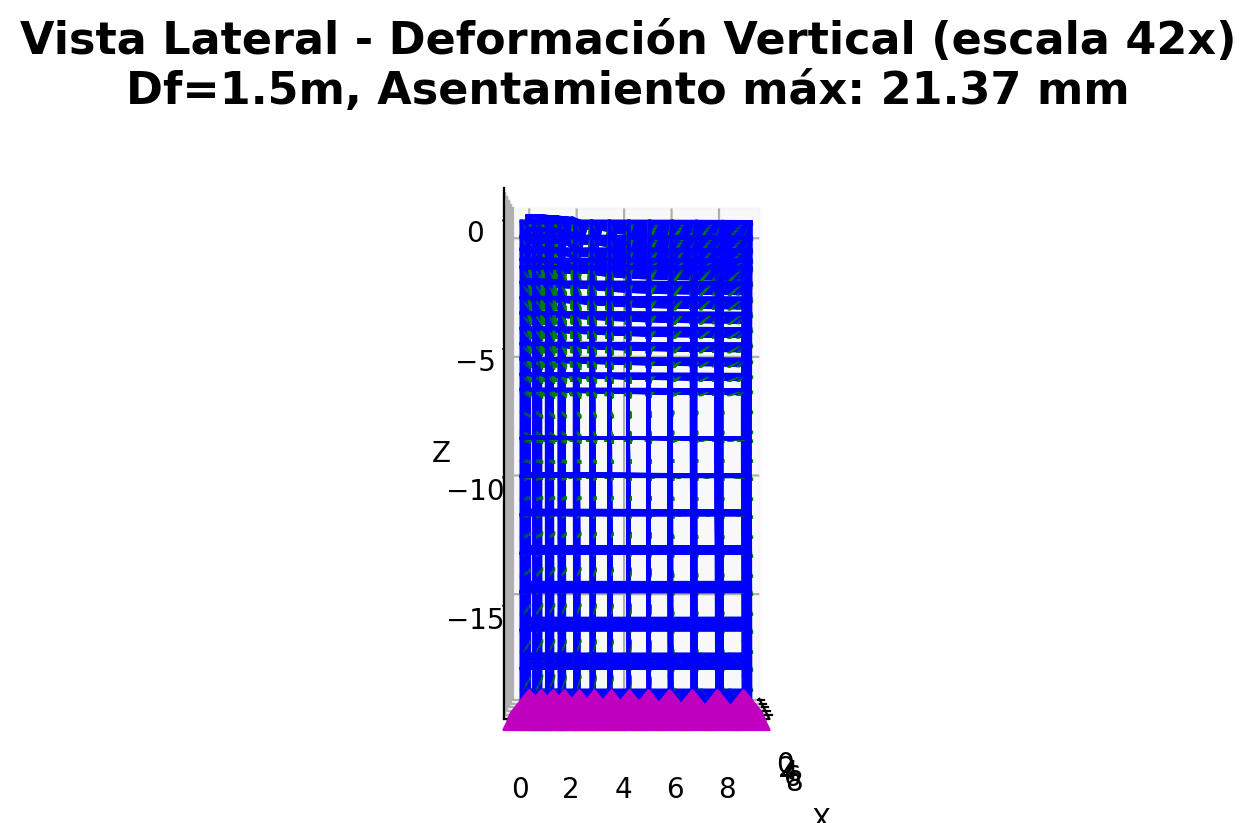
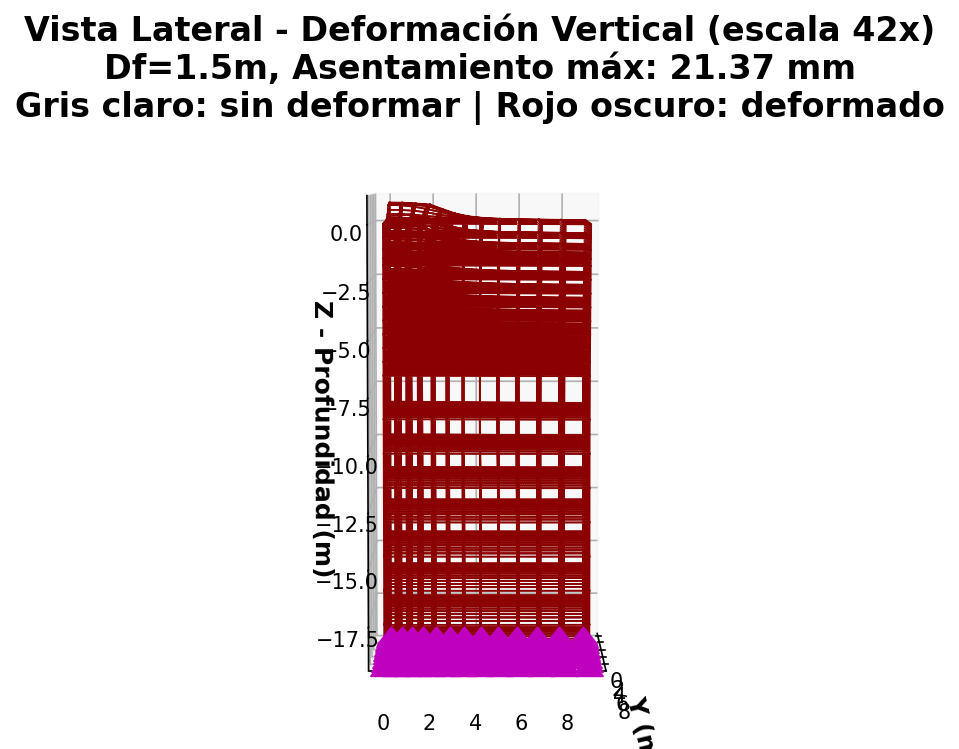
Improve opsvis visualization parameters
Enhanced visualization settings for clearer model views:
- Increased figure sizes for better detail visibility
- Added custom line styles and colors for deformed/undeformed states
- Improved axis labels with bold font
- Adjusted viewing angles for better perspectives
- Reduced DPI to 150 for faster rendering

Updated all 4 visualizations with improved styling:
- Undeformed: Black wireframe showing mesh structure
- Deformed isometric: Gray (original) vs Blue (deformed)
- Lateral view: Light gray vs Dark red for vertical deformation
- Plan view: Light blue vs Green for surface deformation

Note: matplotlib visualizations in visualize_zapata.py remain superior
for professional reports and presentations.

diff --git a/visualize_opsvis.py b/visualize_opsvis.py
@@ -214,43 +214,65 @@ print()
 scale_factor = dominio_ancho * 0.1 / abs(max_settlement) if max_settlement != 0 else 100
 
 # ============================================================================
-# VISUALIZACIÓN 1: Modelo sin deformar
+# VISUALIZACIÓN 1: Modelo sin deformar (wireframe limpio)
 # ============================================================================
 print("1. Modelo sin deformar...")
 
-fig1 = plt.figure(figsize=(16, 12))
-ax1 = fig1.add_subplot(111, projection='3d')
+fig1 = plt.figure(figsize=(18, 14))
 
-opsv.plot_model(az_el=(-60, 30), fig_wi_he=(16, 12))
+# Plot con menos nodos visibles y wireframe
+opsv.plot_model(
+    node_labels=0,
+    element_labels=0,
+    az_el=(-65, 25),
+    fig_wi_he=(18, 14),
+    fmt_model={'color': 'black', 'linewidth': 0.5, 'linestyle': '-'}
+)
 
 plt.title(f'Modelo OpenSees - Zapata {B_completa}m×{L_completa}m, Df={Df}m\n'
-          f'Modelo 1/4 simetría - {num_nodos} nodos, {total_elementos} elementos',
+          f'Modelo 1/4 simetría - {num_nodos} nodos, {total_elementos} elementos\n'
+          f'Malla gradual con zapata enterrada a {Df}m',
           fontsize=16, fontweight='bold', pad=20)
 
+# Mejorar labels de ejes
+ax = plt.gca()
+ax.set_xlabel('X (m)', fontsize=12, fontweight='bold')
+ax.set_ylabel('Y (m)', fontsize=12, fontweight='bold')
+ax.set_zlabel('Z (m)', fontsize=12, fontweight='bold')
+
 output1 = 'modelo_opsvis_undeformed.png'
-plt.savefig(output1, dpi=200, bbox_inches='tight', facecolor='white')
+plt.savefig(output1, dpi=150, bbox_inches='tight', facecolor='white')
 print(f"✓ Guardado: {output1}")
 plt.close()
 
 # ============================================================================
-# VISUALIZACIÓN 2: Modelo deformado (vista isométrica)
+# VISUALIZACIÓN 2: Modelo deformado (vista isométrica con color)
 # ============================================================================
 print("2. Modelo deformado - vista isométrica...")
 
-fig2 = plt.figure(figsize=(16, 12))
+fig2 = plt.figure(figsize=(18, 14))
 
+# Deformación con líneas negras para modelo original y azul para deformado
 opsv.plot_defo(
     sfac=scale_factor,
-    az_el=(-60, 30),
-    fig_wi_he=(16, 12)
+    az_el=(-65, 25),
+    fig_wi_he=(18, 14),
+    fmt_undefo={'color': 'gray', 'linewidth': 0.3, 'linestyle': ':', 'alpha': 0.4},
+    fmt_defo={'color': 'blue', 'linewidth': 1.0, 'linestyle': '-'}
 )
 
 plt.title(f'Modelo Deformado - Vista Isométrica (escala {scale_factor:.0f}x)\n'
-          f'Asentamiento máximo: {abs(max_settlement)*1000:.2f} mm, Df={Df}m',
+          f'Asentamiento máximo: {abs(max_settlement)*1000:.2f} mm, Df={Df}m\n'
+          f'Gris: sin deformar | Azul: deformado',
           fontsize=16, fontweight='bold', pad=20)
 
+ax = plt.gca()
+ax.set_xlabel('X (m)', fontsize=12, fontweight='bold')
+ax.set_ylabel('Y (m)', fontsize=12, fontweight='bold')
+ax.set_zlabel('Z (m)', fontsize=12, fontweight='bold')
+
 output2 = 'modelo_opsvis_deformed.png'
-plt.savefig(output2, dpi=200, bbox_inches='tight', facecolor='white')
+plt.savefig(output2, dpi=150, bbox_inches='tight', facecolor='white')
 print(f"✓ Guardado: {output2}")
 plt.close()
 
@@ -259,42 +281,57 @@ plt.close()
 # ============================================================================
 print("3. Vista lateral con deformación...")
 
-fig3 = plt.figure(figsize=(18, 10))
+fig3 = plt.figure(figsize=(20, 12))
 
 opsv.plot_defo(
     sfac=scale_factor,
-    az_el=(0, 0),  # Vista lateral (en el plano YZ)
-    fig_wi_he=(18, 10)
+    az_el=(0, 5),  # Vista lateral casi perpendicular
+    fig_wi_he=(20, 12),
+    fmt_undefo={'color': 'lightgray', 'linewidth': 0.4, 'linestyle': ':', 'alpha': 0.5},
+    fmt_defo={'color': 'darkred', 'linewidth': 0.8, 'linestyle': '-'}
 )
 
 plt.title(f'Vista Lateral - Deformación Vertical (escala {scale_factor:.0f}x)\n'
-          f'Df={Df}m, Asentamiento máx: {abs(max_settlement)*1000:.2f} mm',
+          f'Df={Df}m, Asentamiento máx: {abs(max_settlement)*1000:.2f} mm\n'
+          f'Gris claro: sin deformar | Rojo oscuro: deformado',
           fontsize=16, fontweight='bold', pad=20)
 
+ax = plt.gca()
+ax.set_xlabel('Y (m)', fontsize=12, fontweight='bold')
+ax.set_ylabel('X (m)', fontsize=12, fontweight='bold')
+ax.set_zlabel('Z - Profundidad (m)', fontsize=12, fontweight='bold')
+
 output3 = 'modelo_opsvis_lateral.png'
-plt.savefig(output3, dpi=200, bbox_inches='tight', facecolor='white')
+plt.savefig(output3, dpi=150, bbox_inches='tight', facecolor='white')
 print(f"✓ Guardado: {output3}")
 plt.close()
 
 # ============================================================================
-# VISUALIZACIÓN 4: Vista en planta
+# VISUALIZACIÓN 4: Vista en planta - Superficie
 # ============================================================================
-print("4. Vista en planta...")
+print("4. Vista en planta (superficie)...")
 
-fig4 = plt.figure(figsize=(12, 12))
+fig4 = plt.figure(figsize=(14, 14))
 
 opsv.plot_defo(
     sfac=scale_factor,
-    az_el=(0, 90),  # Vista desde arriba
-    fig_wi_he=(12, 12)
+    az_el=(-90, 90),  # Vista desde arriba
+    fig_wi_he=(14, 14),
+    fmt_undefo={'color': 'lightblue', 'linewidth': 0.3, 'linestyle': '--', 'alpha': 0.4},
+    fmt_defo={'color': 'green', 'linewidth': 0.7, 'linestyle': '-'}
 )
 
-plt.title(f'Vista en Planta - Deformación (escala {scale_factor:.0f}x)\n'
-          f'Zapata {B_completa}m×{L_completa}m, Df={Df}m',
+plt.title(f'Vista en Planta - Deformación en Superficie (escala {scale_factor:.0f}x)\n'
+          f'Zapata {B_completa}m×{L_completa}m (cuarto modelo), Df={Df}m\n'
+          f'Azul claro: sin deformar | Verde: deformado',
           fontsize=16, fontweight='bold', pad=20)
 
+ax = plt.gca()
+ax.set_xlabel('X (m)', fontsize=12, fontweight='bold')
+ax.set_ylabel('Y (m)', fontsize=12, fontweight='bold')
+
 output4 = 'modelo_opsvis_planta.png'
-plt.savefig(output4, dpi=200, bbox_inches='tight', facecolor='white')
+plt.savefig(output4, dpi=150, bbox_inches='tight', facecolor='white')
 print(f"✓ Guardado: {output4}")
 plt.close()
 
